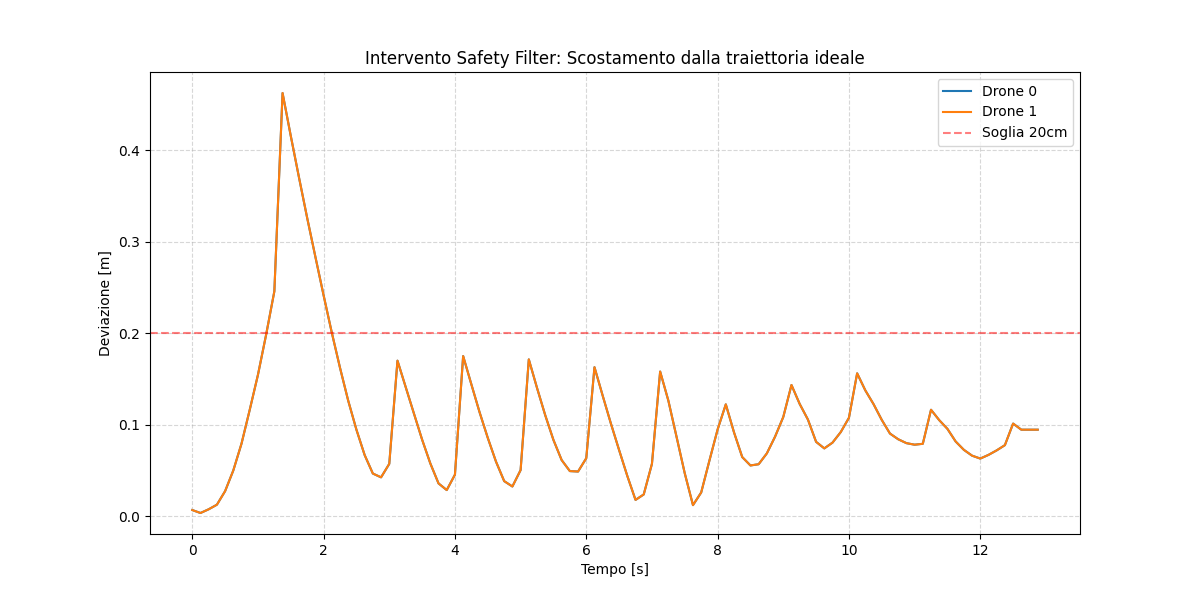
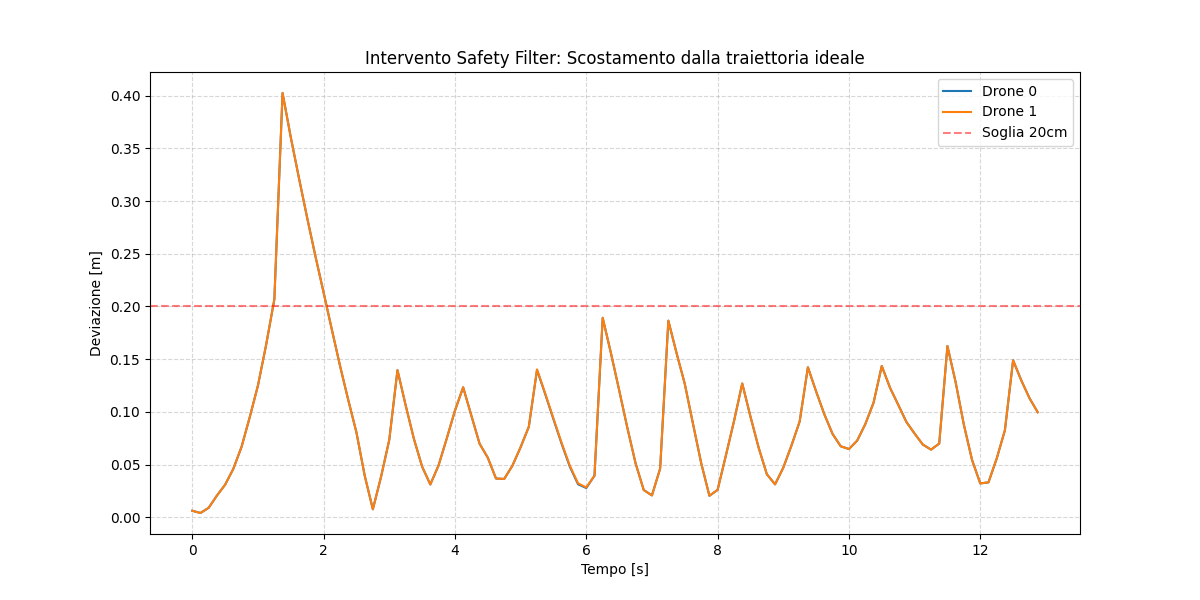
fix: deployment fixes

diff --git a/scripts/test_two_uploaded_trajectories.py b/scripts/test_two_uploaded_trajectories.py
@@ -13,6 +13,7 @@ from __future__ import annotations
 
 import argparse
 import sys
+import time
 from pathlib import Path
 
 import numpy as np
@@ -103,6 +104,7 @@ def parse_args() -> argparse.Namespace:
     parser.add_argument("--align-initial", action=argparse.BooleanOptionalAction, default=True)
     parser.add_argument("--land", action=argparse.BooleanOptionalAction, default=True)
     parser.add_argument("--sync-start", action=argparse.BooleanOptionalAction, default=True)
+    parser.add_argument("--upload-only", action="store_true")
     return parser.parse_args()
 
 
@@ -133,19 +135,8 @@ def main() -> None:
     }
     controller.swarm.allcfs.crazyfliesById = selected_drones
 
-    if args.arm:
-        print(f"Arming drones {drone_ids}")
-        controller.arm(True)
-
-    if args.takeoff:
-        print(f"Taking off to {args.takeoff_height:.2f} m")
-        controller.takeoff(target_height=args.takeoff_height, duration=args.takeoff_duration)
-
-    if args.align_initial:
-        print("Moving drones to configured initial x/y positions")
-        controller.move_to_initial_positions(height=args.takeoff_height, duration=args.align_duration)
-
-    print("Uploading high-level trajectories")
+    print("Uploading high-level trajectories before takeoff")
+    upload_start = time.perf_counter()
     for drone_index, (drone_id, crazyflie) in enumerate(selected_drones.items()):
         initial_position = np.array(crazyflie.initialPosition, dtype=float)
         initial_position[2] = args.takeoff_height
@@ -156,8 +147,33 @@ def main() -> None:
             pattern=args.pattern,
         )
         trajectory = make_relative_trajectory(duration=args.duration, offset=offset)
+        drone_upload_start = time.perf_counter()
         crazyflie.uploadTrajectory(TRAJECTORY_ID, 0, trajectory)
-        print(f"cf{drone_id}: start={initial_position}, end={initial_position + offset}, offset={offset}")
+        print(
+            f"cf{drone_id}: start={initial_position}, end={initial_position + offset}, "
+            f"offset={offset}, upload={time.perf_counter() - drone_upload_start:.3f}s"
+        )
+    print(f"Total upload took {time.perf_counter() - upload_start:.3f}s")
+    if args.upload_only:
+        print("Upload-only mode complete")
+        return
+
+    if args.arm:
+        print(f"Arming drones {drone_ids}")
+        controller.arm(True)
+
+    if args.takeoff:
+        print(f"Taking off to {args.takeoff_height:.2f} m")
+        controller.takeoff(target_height=args.takeoff_height, duration=args.takeoff_duration)
+
+    if args.align_initial:
+        print("Moving drones to configured initial x/y positions")
+        for drone_id, crazyflie in selected_drones.items():
+            goal = np.array(crazyflie.initialPosition, dtype=float)
+            goal[2] = args.takeoff_height
+            print(f"cf{drone_id}: goTo initial goal={goal}, duration={args.align_duration:.2f}s")
+            crazyflie.goTo(goal, yaw=0.0, duration=args.align_duration)
+        controller.swarm.timeHelper.sleep(args.align_duration + 0.5)
 
     if args.sync_start:
         print("Starting trajectories with group mask")
@@ -183,7 +199,7 @@ def main() -> None:
     if args.land:
         print(f"Landing selected drones over {args.land_duration:.2f} s")
         for crazyflie in selected_drones.values():
-            crazyflie.land(targetHeight=0.06, duration=args.land_duration)
+            crazyflie.land(targetHeight=0.01, duration=args.land_duration)
         controller.swarm.timeHelper.sleep(args.land_duration + 1.0)
         for crazyflie in selected_drones.values():
             crazyflie.arm(False)

diff --git a/scripts/test_two_hardcoded_splines.py b/scripts/test_two_hardcoded_splines.py
@@ -1,5 +1,8 @@
 #!/usr/bin/env python3
-"""Run a synchronized hard-coded spline test for two Crazyflies."""
+"""
+Run a synchronized hard-coded spline test for two Crazyflies.
+python scripts/test_two_hardcoded_splines.py --pattern parallel-x --distance 0.5
+"""
 
 from __future__ import annotations
 
